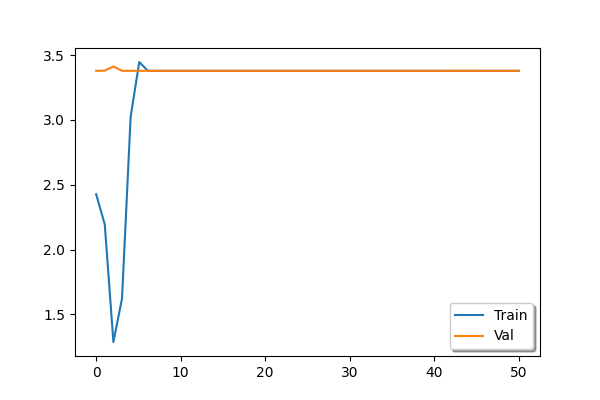
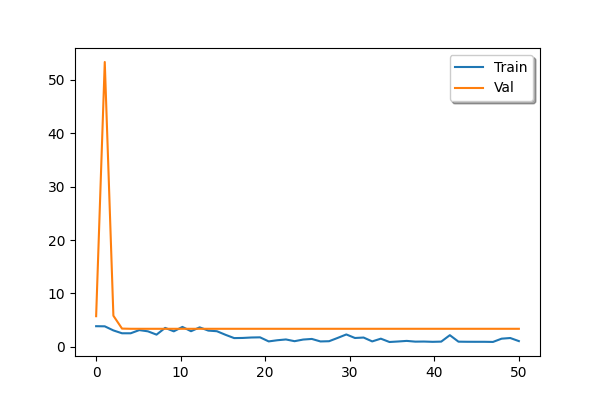
Multiple runs in transfer learning

diff --git a/transfer.py b/transfer.py
@@ -160,11 +160,10 @@ def fine_tune(model, checkpoint_path, val_loader, test_loader, name = "blank", n
 
     out_fn = Sigmoid()
     model_optimizer = torch.optim.Adam(model.parameters(), lr=args.model_lr)
-    print(f"\nName: {name}, State: {model_name}")
-    pbar = tqdm(range(n_epochs), leave=False)
+    # pbar = tqdm(range(n_epochs), leave=False)
     best_val_loss, best_epoch = 1.e9, 0
     train_losses, val_losses = [], []
-    for i_epoch in pbar:
+    for i_epoch in range(n_epochs):
         model.train()
         # ys, y_preds = [], []
         for i_batch, batch in enumerate(val_loader):
@@ -188,9 +187,7 @@ def fine_tune(model, checkpoint_path, val_loader, test_loader, name = "blank", n
 
             model_loss.backward()
             model_optimizer.step()
-        if i_epoch == 0:
-            print(f"Untrained Score: {evaluate_model(model, test_loader, score_fn, out_fn, loss_fn,  task)[0]}")
-        pbar.set_description(str(model_loss.item())[:6])
+        # pbar.set_description(str(model_loss.item())[:6])
         _, val_loss = evaluate_model(model, test_loader, score_fn, out_fn, loss_fn, task)
 
         if val_loss < best_val_loss:
@@ -200,8 +197,8 @@ def fine_tune(model, checkpoint_path, val_loader, test_loader, name = "blank", n
 
         val_losses.append(val_loss.item())
 
-    final_score = 1 - final_score
-    print(f"Final Score: {final_score}")
+    if task == "classification":
+        final_score = 1 - final_score
 
     fig, ax = plt.subplots(figsize=(6,4))
     ax.plot(np.linspace(start = 0, stop = n_epochs, num=len(train_losses)), train_losses, label = "Train")
@@ -265,6 +262,7 @@ def run(args):
         val_loader = val_loaders[i]
         test_loader = test_loaders[i]
         name = names[i]
+        print(f"Name: {name}")
 
         if name not in os.listdir("outputs"):
             os.mkdir(f"outputs/{name}")
@@ -280,7 +278,8 @@ def run(args):
         pretrain_val = np.zeros((n_repeats, num_epochs))
         untrain_val = np.zeros((n_repeats, num_epochs))
 
-        for n in tqdm(n_repeats):
+        pbar = tqdm(range(n_repeats))
+        for n in pbar:
             model = TransferModel(
                 MoleculeEncoder(emb_dim=args.emb_dim, num_gc_layers=args.num_gc_layers, drop_ratio=args.drop_ratio,
                                 pooling_type=args.pooling_type),
@@ -291,7 +290,6 @@ def run(args):
                                                                                                                                     test_loader,
                                                                                                                                     name = name,
                                                                                                                                     n_epochs=num_epochs)
-
             model = TransferModel(
                 MoleculeEncoder(emb_dim=args.emb_dim, num_gc_layers=args.num_gc_layers, drop_ratio=args.drop_ratio,
                                 pooling_type=args.pooling_type),
@@ -305,6 +303,9 @@ def run(args):
 
             pretrain_val[n, :] = pretrain_val_losses
             untrain_val[n, :] = untrain_val_losses
+
+            scores = "Pretrain:" + str(pretrain_val_score)[:5] + "  Untrain:" + str(untrain_val_score)[:5]
+            pbar.set_description(scores)
 
             if pretrain_val_score <= best_pretrain_score:
                 best_pretrain_score = pretrain_val_score
@@ -324,15 +325,15 @@ def run(args):
         fig, ax = plt.subplots(figsize=(6, 4))
 
 
-        ax.errorbar(np.linspace(start = 0, stop = num_epochs, num=pretrain_val_loss_mean.shape[0]),
-                pretrain_val_losses,
-                yerr = pretrain_val_loss_dev,
+        ax.fill_between(np.linspace(start = 0, stop = num_epochs, num=pretrain_val_loss_mean.shape[0]),
+                pretrain_val_losses + pretrain_val_loss_dev,
+                pretrain_val_losses - pretrain_val_loss_dev,
                 alpha = 0.5,
                 c = "green")
 
-        ax.errorbar(np.linspace(start = 0, stop = num_epochs, num=untrain_val_loss_mean.shape[0]),
-                untrain_val_losses,
-                yerr = untrain_val_loss_dev,
+        ax.fill_between(np.linspace(start = 0, stop = num_epochs, num=untrain_val_loss_mean.shape[0]),
+                untrain_val_losses + untrain_val_loss_dev,
+                untrain_val_losses - untrain_val_loss_dev,
                 alpha = 0.5,
                 c = "blue")
 
